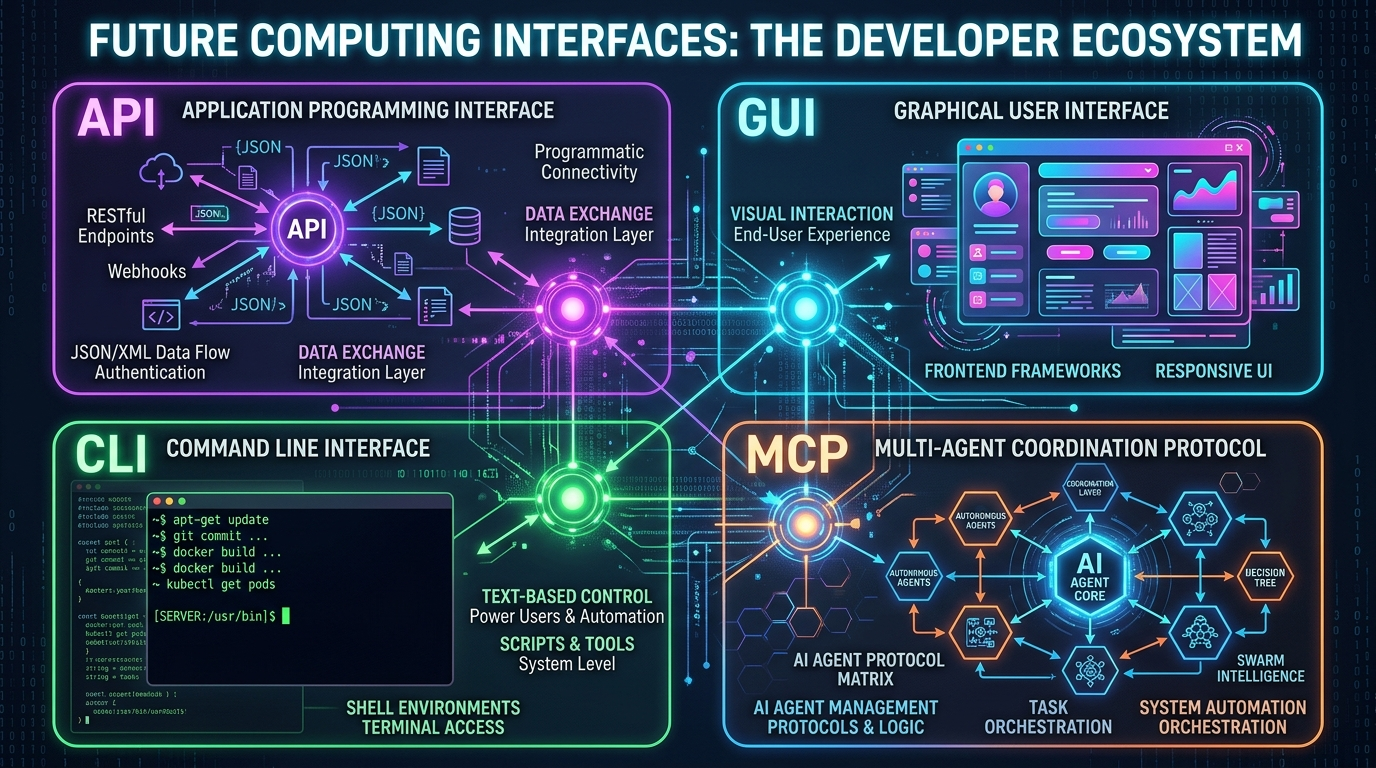
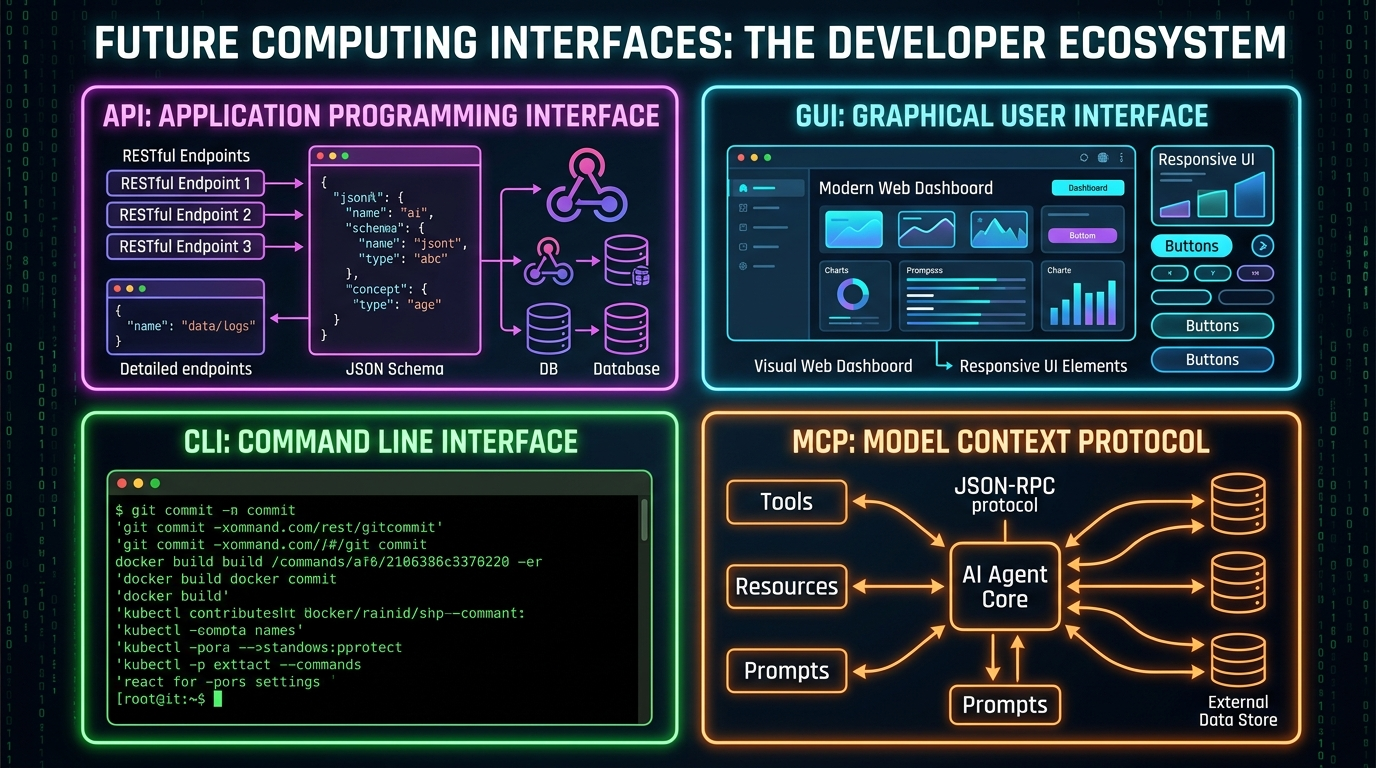
fix: update MCP hero image and refresh blog content with latest MCP specs

diff --git a/posts/api-gui-cli-mcp.html b/posts/api-gui-cli-mcp.html
@@ -482,7 +482,7 @@ submitBtn.<span class="code-function">addEventListener</span>(<span class="code-
             LLMs are probabilistic reasoning engines. They do not run compiled C++ code directly, nor do they click pixel buttons like a human. They need an interface standard that lets them dynamically discover data schemas, inspect environment resources, and invoke tool functions safely.
         </div>
 
-        <p>Created to solve this exact bottleneck, <strong>Model Context Protocol (MCP)</strong> is an open protocol designed by Anthropic and adopted across the AI ecosystem. MCP standardizes how AI applications (<strong>MCP Clients / Hosts</strong>) securely connect to data sources, local filesystems, database instances, and external APIs (<strong>MCP Servers</strong>).</p>
+        <p>Created to solve this exact bottleneck, <strong>Model Context Protocol (MCP)</strong> is an open standard initially created by Anthropic and transferred to the <strong>Agentic AI Foundation (AAIF)</strong> under the <strong>Linux Foundation</strong>—co-sponsored by industry leaders including Anthropic, OpenAI, Google, Microsoft, AWS, and Block. MCP standardizes how AI applications (<strong>MCP Clients / Hosts</strong>) securely connect to data sources, local filesystems, database instances, enterprise platforms, and external APIs (<strong>MCP Servers</strong>).</p>
 
         <div class="architecture-diagram">
             <h3>Unified Architecture: How MCP Bridges Systems</h3>
@@ -498,7 +498,7 @@ submitBtn.<span class="code-function">addEventListener</span>(<span class="code-
         </div>
 
         <h3>The Three Primitives of MCP</h3>
-        <p>MCP defines three core primitives that an MCP Server exposes to an AI Client over standard streams (stdio) or SSE (Server-Sent Events) using <strong>JSON-RPC 2.0</strong>:</p>
+        <p>MCP defines three core primitives that an MCP Server exposes to an AI Client over standard streams (<code>stdio</code>) or HTTP/SSE using <strong>JSON-RPC 2.0</strong>:</p>
 
         <ol>
             <li><strong>Resources:</strong> Passive read-only data sources (file contents, logs, system specs, database rows) identified by standardized URIs (e.g. <code>file:///logs/app.log</code> or <code>postgres://users/schema</code>).</li>
@@ -506,18 +506,30 @@ submitBtn.<span class="code-function">addEventListener</span>(<span class="code-
             <li><strong>Tools:</strong> Executable side-effect operations (file creation, SQL execution, git operations, terminal commands, web API requests) complete with JSON Schema input declarations that the LLM can auto-invoke.</li>
         </ol>
 
+        <h3>Key Protocol Evolution & Specification Milestones</h3>
+        <p>As MCP rapidly grew into the <em>de facto</em> standard across millions of developer environments, the specification evolved to address enterprise scalability, security, and rich user experiences:</p>
+
+        <ul>
+            <li><strong>Stateless Protocol & Horizontal Scale:</strong> Recent spec releases transitioned MCP toward stateless request handling by removing mandatory initial session handshakes (`initialize`), allowing MCP servers to scale horizontally behind standard round-robin load balancers without complex session pinning.</li>
+            <li><strong>OAuth 2.1 Security & Conformance:</strong> Integrated enterprise authorization models (OAuth 2.1 / OIDC) and strict JSON Schema validation to guard against prompt injection and tool-poisoning vectors.</li>
+            <li><strong>MCP Apps & Extension Framework:</strong> Support for server-rendered UI widgets ("MCP Apps") embedded inside chat interfaces, alongside an extensions framework for asynchronous long-running background tasks.</li>
+        </ul>
+
         <h3>Annotated MCP Tool Declaration & Execution</h3>
-        <p>The code below demonstrates how an MCP Server defines a tool schema, allowing an LLM to dynamically inspect the tool's signature and invoke it safely:</p>
+        <p>The code below demonstrates how an MCP Server defines a tool schema using the official SDK, allowing an LLM to dynamically inspect the tool's signature and invoke it safely:</p>
 
         <div class="code-container">
             <div class="code-header">TypeScript / MCP Server Tool Definition</div>
             <pre><code><span class="code-keyword">import</span> { Server } <span class="code-keyword">from</span> <span class="code-string">"@modelcontextprotocol/sdk/server/index.js"</span>;
 <span class="code-keyword">import</span> { ListToolsRequestSchema, CallToolRequestSchema } <span class="code-keyword">from</span> <span class="code-string">"@modelcontextprotocol/sdk/types.js"</span>;
 
-<span class="code-comment">// Instantiate standard MCP Server</span>
-<span class="code-keyword">const</span> server = <span class="code-keyword">new</span> <span class="code-function">Server</span>({ name: <span class="code-string">"database-mcp-server"</span>, version: <span class="code-string">"1.0.0"</span> });
+<span class="code-comment">// Instantiate standard MCP Server with tool capabilities</span>
+<span class="code-keyword">const</span> server = <span class="code-keyword">new</span> <span class="code-function">Server</span>(
+  { name: <span class="code-string">"database-mcp-server"</span>, version: <span class="code-string">"2.0.0"</span> },
+  { capabilities: { tools: {} } }
+);
 
-<span class="code-comment">// 1. Expose Tool Schemas to the AI Agent</span>
+<span class="code-comment">// 1. Expose Tool Schemas to the AI Agent via JSON-RPC</span>
 server.<span class="code-function">setRequestHandler</span>(ListToolsRequestSchema, <span class="code-keyword">async</span> () => ({
   tools: [
     {
@@ -534,7 +546,7 @@ server.<span class="code-function">setRequestHandler</span>(ListToolsRequestSche
   ]
 }));
 
-<span class="code-comment">// 2. Handle Tool Invocation from the LLM</span>
+<span class="code-comment">// 2. Handle Dynamic Tool Invocation from the LLM</span>
 server.<span class="code-function">setRequestHandler</span>(CallToolRequestSchema, <span class="code-keyword">async</span> (request) => {
   <span class="code-keyword">if</span> (request.params.name === <span class="code-string">"query_database"</span>) {
     <span class="code-keyword">const</span> queryResult = <span class="code-keyword">await</span> db.<span class="code-function">query</span>(request.params.arguments.sql);
